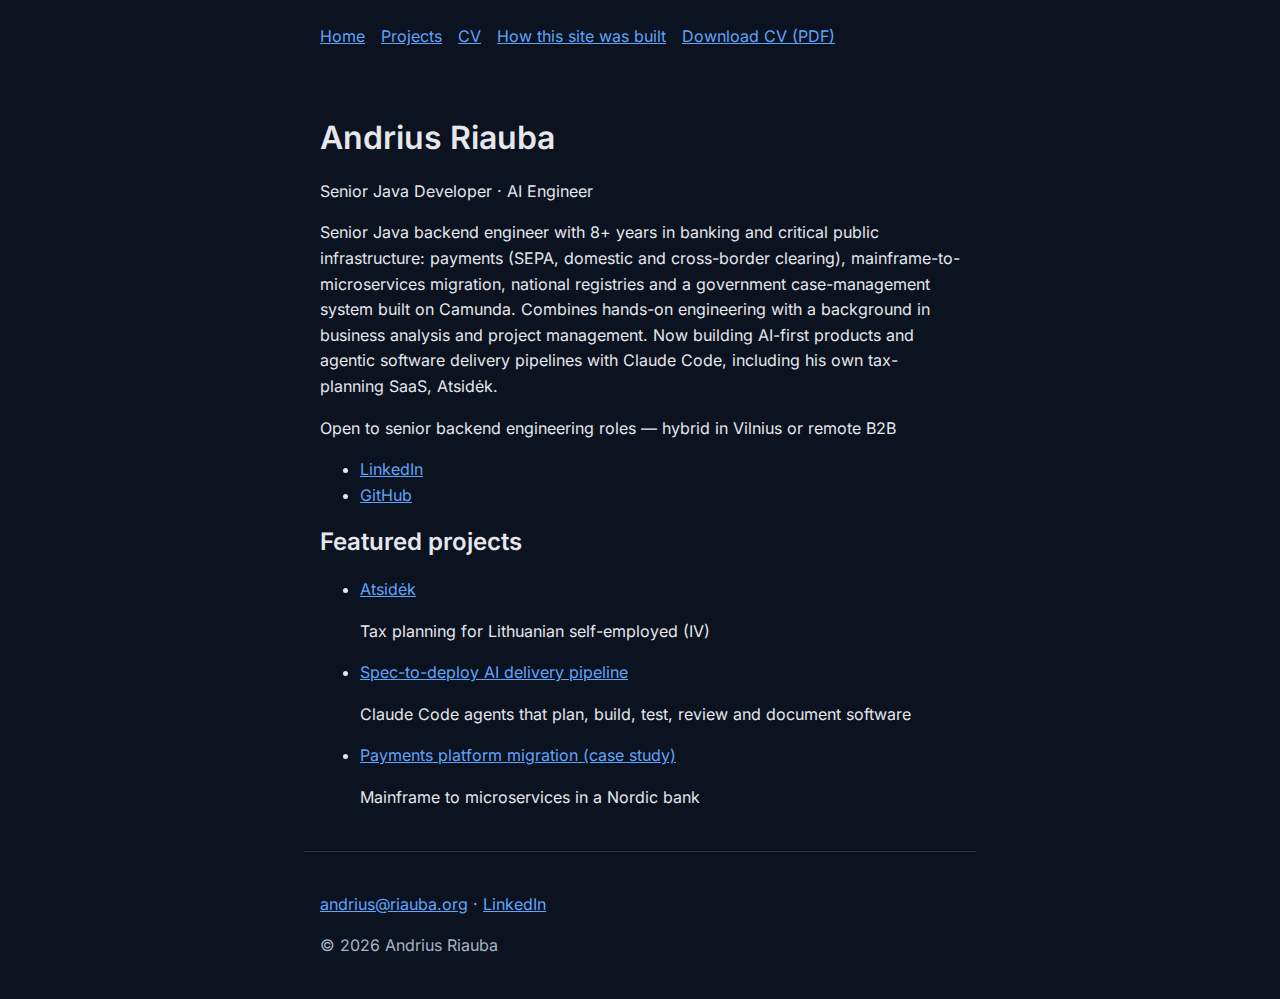
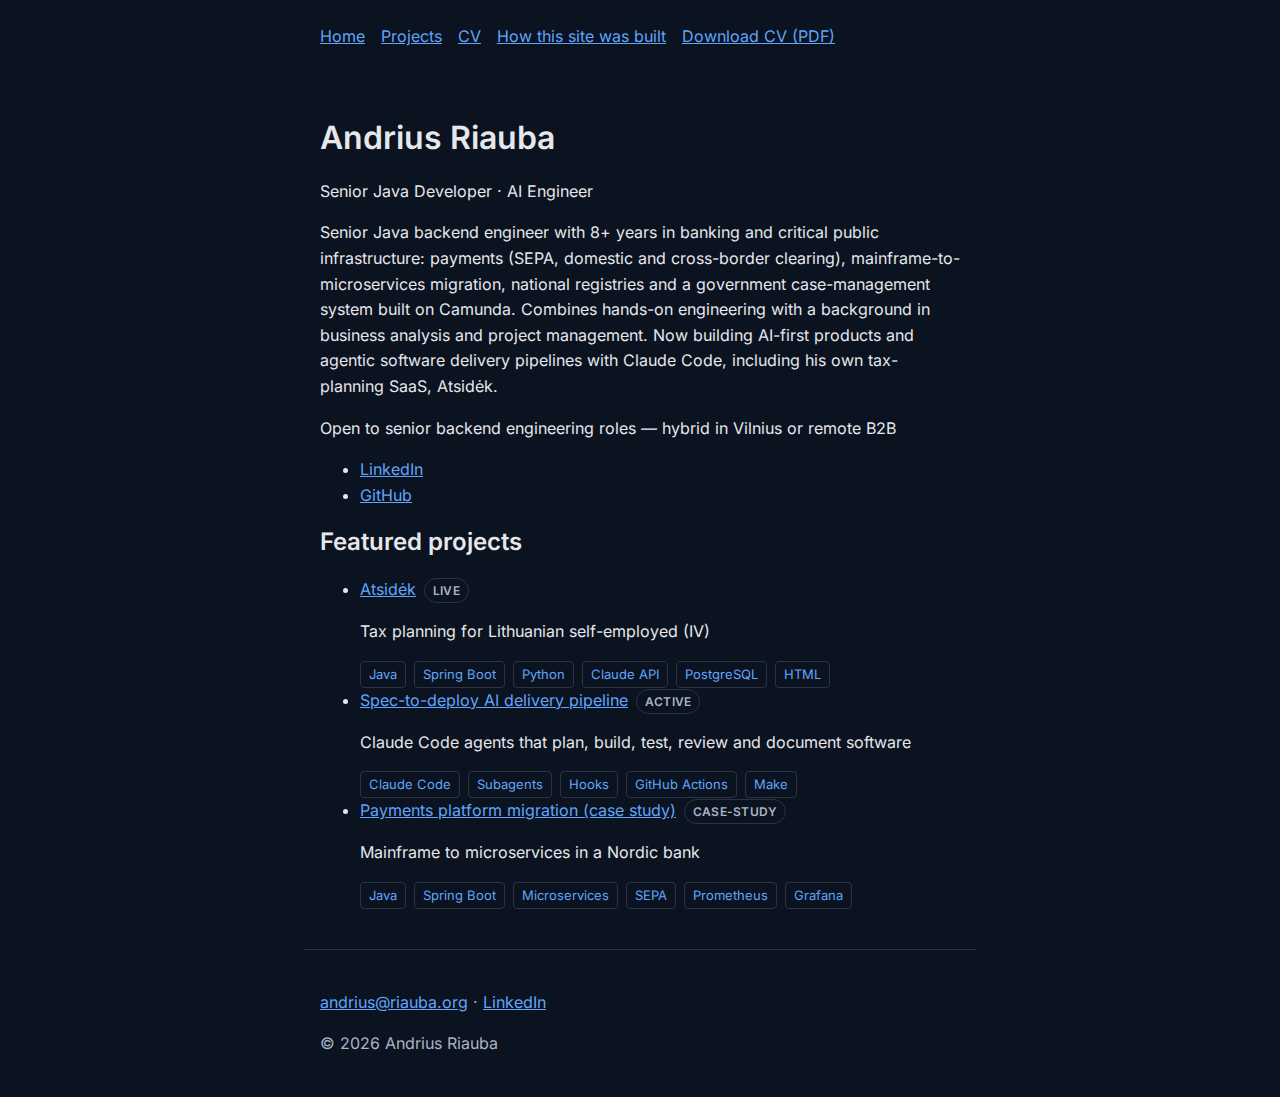
test(003): extend screenshots.spec.ts and regenerate user-guide screenshots
Add screenshot captures for the projects catalogue, project detail,
project tag filter, and how-this-site-was-built pages, and regenerate the
home page screenshots (now showing status badges/stack tags). These were
produced during spec 003's test phase but left uncommitted.

Changed region(s): [[0.25, 0.0931, 0.75, 0.8378], [0.25, 0.031, 0.6562, 0.0621], [0.25, 0.8999, 0.4375, 0.962]]

diff --git a/tests/screenshots/screenshots.spec.ts b/tests/screenshots/screenshots.spec.ts
@@ -79,4 +79,54 @@ test.describe("documentation screenshots", () => {
       fullPage: true,
     });
   });
+
+  test("projects catalogue page, light scheme", async ({ page }) => {
+    await page.emulateMedia({ colorScheme: "light" });
+    await page.goto("/projects");
+    await expect(page.getByRole("heading", { level: 1 })).toBeVisible();
+    await page.screenshot({
+      path: `${imgDir}projects-light.png`,
+      fullPage: true,
+    });
+  });
+
+  test("projects catalogue page, dark scheme", async ({ page }) => {
+    await page.emulateMedia({ colorScheme: "dark" });
+    await page.goto("/projects");
+    await expect(page.getByRole("heading", { level: 1 })).toBeVisible();
+    await page.screenshot({
+      path: `${imgDir}projects-dark.png`,
+      fullPage: true,
+    });
+  });
+
+  test("project detail page (atsidek), light scheme", async ({ page }) => {
+    await page.emulateMedia({ colorScheme: "light" });
+    await page.goto("/projects/atsidek");
+    await expect(page.getByRole("heading", { level: 1 })).toBeVisible();
+    await page.screenshot({
+      path: `${imgDir}project-detail-light.png`,
+      fullPage: true,
+    });
+  });
+
+  test("project tag filter page (java), light scheme", async ({ page }) => {
+    await page.emulateMedia({ colorScheme: "light" });
+    await page.goto("/projects/tag/java");
+    await expect(page.getByRole("heading", { level: 1 })).toBeVisible();
+    await page.screenshot({
+      path: `${imgDir}project-tag-light.png`,
+      fullPage: true,
+    });
+  });
+
+  test("how this site was built page, light scheme", async ({ page }) => {
+    await page.emulateMedia({ colorScheme: "light" });
+    await page.goto("/how-this-site-was-built");
+    await expect(page.getByRole("heading", { level: 1 })).toBeVisible();
+    await page.screenshot({
+      path: `${imgDir}how-this-site-was-built-light.png`,
+      fullPage: true,
+    });
+  });
 });
